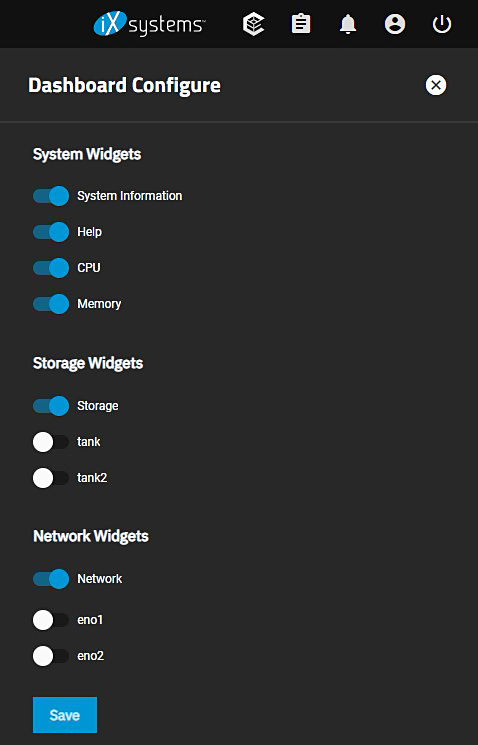
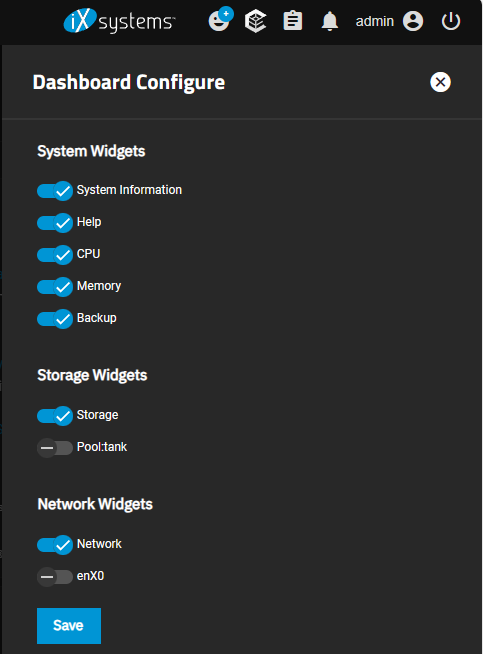
PD-813: Update SCALE Dashboard UI Ref
- Convert image calls
- Add Backup widget content
- Update configure panel screenshot
- Review network widget text a little (TODO: update those screenshots when fixes land)

diff --git a/content/SCALE/SCALEUIReference/SCALEDashboard.md b/content/SCALE/SCALEUIReference/SCALEDashboard.md
@@ -10,7 +10,7 @@ tags:
 The **Dashboard** screen displays the first time you log into the SCALE web interface. 
 To display the **Dashboard** screen again click **Dashboard** on the left side panel. 
 
-![DashboardMainScreenSCALE](/images/SCALE/Dashboard/DashboardMainScreenSCALE.png "TrueNAS SCALE Dashboard")
+{{< trueimage src="/images/SCALE/Dashboard/DashboardMainScreenSCALE.png" alt="TrueNAS SCALE Dashboard" id="TrueNAS SCALE Dashboard" >}}
 
 The **Dashboard** displays basic information about your TrueNAS system in widgets or information cards that group information about your TrueNAS by type. For example, CPU information appears in the CPU widget. 
 These widgets display in a default layout that you can change.
@@ -25,11 +25,11 @@ The **Dashboard Configuration** panel allows you to turn widget displays on or o
 There are three widget group types: **System Widgets**, **Storage Widgets** and **Network Widgets**. 
 Storage and network widgets vary based on the pools and network interfaces configured on your TrueNAS. 
 
-![DashboardConfigureScreenSCALE](/images/SCALE/Dashboard/DashboardConfigureScreenSCALE.png "Dashboard Configure Panel")
+{{< trueimage src="/images/SCALE/Dashboard/DashboardConfigureScreenSCALE.png" alt="Dashboard Configure Panel" id="Dashboard Configure Panel" >}}
 
 Click on the slider to turn the information display on or off.
 
-**System Widgets** control the display of the **System Information**, **Help**, **CPU** and **Memory** widgets.
+**System Widgets** control the display of the **System Information**, **Help**, **CPU**, **Memory**, and **Backup** widgets.
 
 **Storage Widgets** control the display of the **Storage** widget and individual widgets for each pool configured on your TrueNAS.
 
@@ -45,13 +45,13 @@ The **System Information** widget displays general information about the SCALE s
 If installed on customer-provided servers the widget displays a generic TrueNAS image. 
 If installed on iXsystems-provided hardware, a picture of the iXsystems hardware displays on the card above the **Check For Updates** button. Click on the image to display the **View Enclosure** screen.
 
-![DashboardSystemInfoWidgetGeneric](/images/SCALE/Dashboard/DashboardSystemInfoWidgetGeneric.png "System Information Widget Generic Hardware")
+{{< trueimage src="/images/SCALE/Dashboard/DashboardSystemInfoWidgetGeneric.png" alt="System Information Widget - Generic Hardware" id="System Information Widget - Generic Hardware" >}}
 
-![DashboardSystemInfoWidgetSCALE](/images/SCALE/Dashboard/DashboardSystemInfoWidgetSCALE.png "System Information Widget for iXsystems Hardware")
+{{< trueimage src="/images/SCALE/Dashboard/DashboardSystemInfoWidgetSCALE.png" alt="System Information Widget for iXsystems Hardware" id="System Information Widget for iXsystems Hardware" >}}
 
 If TrueNAS SCALE time gets out of sync with the system server time, the **System Information** widget displays a message and provides a **Synchronize Time** link that executes a time-synchronization operation.
 
-![DashboardSytemInfoWidgetTimeSync](/images/SCALE/Dashboard/DashboardSytemInfoWidgetTimeSync.png "System Information Widget with Time Sync")
+{{< trueimage src="/images/SCALE/Dashboard/DashboardSytemInfoWidgetTimeSync.png" alt="System Information Widget with Time Sync" id="System Information Widget with Time Sync" >}}
 
 {{< truetable >}}
 | Field | Description |
@@ -72,7 +72,7 @@ The widget includes an **Avg Usage** dynamic spinner that displays the percentag
 The **Stats Per Thread** bar graph displays **Usage** in blue and **Temperature** in orange with the x axis with the number threads and the y axis the percent usage in 20 increment counts. 
 It also details the number **Cores** as ***x* cores (*y* threads)**, the **Highest Usage** as ***x*% (*y* threads at *x*%)**, and the **Hottest** temperature as ***x*&deg;C (*y* cores at *x*&deg;C)**.
 
-![DashboardCPUWidgetSCALE](/images/SCALE/Dashboard/DashboardCPUWidgetSCALE.png "Dashboard CPU Widget")
+{{< trueimage src="/images/SCALE/Dashboard/DashboardCPUWidgetSCALE.png" alt="CPU Widget" id="CPU Widget" >}}
 
 {{< /expand >}}
 
@@ -81,29 +81,32 @@ The **Memory** widget displays information on the system memory.
 {{< expand "Click here for more information" "v" >}}
 The widget displays a spinner showing the GiB **Free** in blue, **ZFS Cache** in fuchsia pink, and **Services** in orange. 
 
-![DashboardMemoryWidgetSCALE](/images/SCALE/Dashboard/DashboardMemoryWidgetSCALE.png "Dashboard Memory Widget")
+{{< trueimage src="/images/SCALE/Dashboard/DashboardMemoryWidgetSCALE.png" alt="Memory Widget" id="Memory Widget" >}}
 
 {{< /expand >}}
 
 ### Network and Interface Widgets
-The **Network** widget displays network the status of the system interfaces, I/O stats, link status and the system IP address and port number.
-{{< expand "Click here for more information" "v" >}}
-The **Network** widget displays a dynamic graph of input (blue) and output (orange) I/O activity over the primary system interface. 
+The **Network** widget displays network the status of the system interfaces, link status, and the system IP address and port number.
+Clicking <i class="material-icons" aria-hidden="true" title="Open Network Reporting Screen">assessment</i> opens the **Reporting** screen and shows more network statistics.
 
-![DashboardNetworkWidgetSCALE](/images/SCALE/Dashboard/DashboardNetworkWidgetSCALE.png "Dashboard Network Widget")
+{{< expand "Click here for more information" "v" >}}
+The **Network** widget displays a dynamic graph of incoming (blue) and outgoing (orange) traffic over the primary system interface.
+
+{{< trueimage src="/images/SCALE/Dashboard/DashboardNetworkWidgetSCALE.png" alt="Network Widget" id="Network Widget" >}}
 
 {{< /expand >}}
-The **Interface** widgets display I/O stats and link status, and provides more information on that interface media type and subtype, any VLANS and the IP Address and port number.
-{{< expand "Click here for more information" "v" >}}
-If more than one interface is configured on your TrueNAS you can use the **Dashboard Configuration** panel to add an interface widget for each interface. The **Interface** card displays the information for that interface.
+The **Interface** widgets display traffic stats and link status, and provides more information on that interface media type and subtype, any VLANS and the IP Address and port number.
+{{< expand "Multiple Interfaces" "v" >}}
+When more than one interface is configured on your TrueNAS, use the **Dashboard Configuration** panel to add an interface widget for each interface.
+The **Interface** card displays the information for that interface.
 
-![DashboardInterfaceWidgetSCALE](/images/SCALE/Dashboard/DashboardInterfaceWidgetSCALE.png "Dashboard Interface Widget")
+{{< trueimage src="/images/SCALE/Dashboard/DashboardInterfaceWidgetSCALE.png" alt="Interface Widget" id="Interface Widget" >}}
 
 Click on the **>** to display the **Addresses** widget for that interface. 
 
-![DashboardInterfaceAddressesWidgetSCALE](/images/SCALE/Dashboard/DashboardInterfaceAddressesWidgetSCALE.png "Dashboard Interface Addresses Widget")
+{{< trueimage src="/images/SCALE/Dashboard/DashboardInterfaceAddressesWidgetSCALE.png" alt="Interface Addresses Widget" id="Interface Addresses Widget" >}}
 
-Click the <span class="iconify" data-icon="material-symbols:edit-outline"></span> edit icon to display the **Network** screen where you can select the interface to open the **Edit Interface** panel.
+Click the <span class="iconify" data-icon="material-symbols:edit-outline"></span> edit icon to open the **Network** > **Edit Interface** screen.
 {{< /expand >}}
 
 ### Storage and Pool Widgets
@@ -112,14 +115,27 @@ The **Storage** widget displays information on the root and other storage pools 
 The **Storage** widget displays the root pool status, path, and the number of VDEVs configured. It also displays the percentage of used space, free space and any caches.
 It reports on the number disks with errors, the total number of disks the root pool uses, and if a spare exists.
 
-![DashboardStorageWidgetSCALE](/images/SCALE/Dashboard/DashboardStorageWidgetSCALE.png "Dashboard Storage Widget")
+{{< trueimage src="/images/SCALE/Dashboard/DashboardStorageWidgetSCALE.png" alt="Storage Widget" id="Storage Widget" >}}
 
 The individual pool information displayed in this widget includes the same information as the root pool.
 {{< /expand >}}
 
+### Backup Tasks Widget
+
+When no backup tasks exist, this shows links to quickly set up an automated data backup schedule.
+Clicking <i class="material-icons" aria-hidden="true" title="Open Data Protection Screen">open_in_new</i> opens the **Data Protection** screen with all options for checking or backing up stored data.
+
+{{< trueimage src="/images/SCALE/Dashboard/BackupTasksEmpty.png" alt="Empty Backup Tasks Widget" id="Empty Backup Tasks Widget" >}}
+
+When a backup task exists, the widget shows details about the various backup tasks that are configured on the system.
+
+{{< trueimage src="/images/SCALE/Dashboard/BackupTasksExample.png" alt="Backup Tasks Widget with Cloud Sync Example" id="Backup Tasks Widget with Cloud Sync Example" >}}
+
+Details provided include how many tasks of each type of backup exist, if they send or receive data, how many times tasks have failed and succeeded, and weekly success counters.
+
 ### Help Widget
 The **TrueNAS Help** widget displays links to the [TrueNAS Documentation Site](https://www.truenas.com/docs/) and [TrueNAS Community Forums](https://www.ixsystems.com/community/). It also includes a link where users can sign up for the [TrueNAS Newsletter](https://www.truenas.com/newsletter/), and a link to the Github web page for [TrueNAS Open Source software](https://github.com/truenas/). There is also a link for the [iXsystems home page](https://www.ixsystems.com/).
 
-![DashboardHelpWidgetSCALE](/images/SCALE/Dashboard/DashboardHelpWidgetSCALE.png "Dashboard Help Widget")
+{{< trueimage src="/images/SCALE/Dashboard/DashboardHelpWidgetSCALE.png" alt="Help Widget" id="Help Widget" >}}
 
 Click on each link to open it in a new browser tab.

diff --git a/content/SCALE/GettingStarted/Configure/SetUpBackupScale.md b/content/SCALE/GettingStarted/Configure/SetUpBackupScale.md
@@ -35,7 +35,7 @@ You can configure TrueNAS to send, receive, or synchronize data with a cloud sto
 
 1. Create an iX Storj account and link to TrueNAS.
 
-   From the **Dashboard**, find the **Backup Tasks** widget and click **Cloud Sync to Storj or similar provider**.
+   From the TrueNAS **Dashboard**, find the **Backup Tasks** widget and click **Cloud Sync to Storj or similar provider**.
 
    Open the **Credentials** dropdown and select **Add New**.
 
@@ -48,7 +48,7 @@ You can configure TrueNAS to send, receive, or synchronize data with a cloud sto
 
 2. Define the backup targets and schedule.
 
-   In the TrueNAS Cloud sync task wizard, review the fields in the **What and When** section (([details](AddStorjCloudSyncTask.md#setting-up-the-storj-cloud-sync-task)).
+   In the TrueNAS Cloud sync task wizard, review the fields in the **What and When** section ([details](AddStorjCloudSyncTask.md#setting-up-the-storj-cloud-sync-task)).
    Select the created Storj **Bucket** before attempting to choose a **Folder**.
    
    There are several predefined **Schedules** to choose from, or select **Custom** to define your own.
